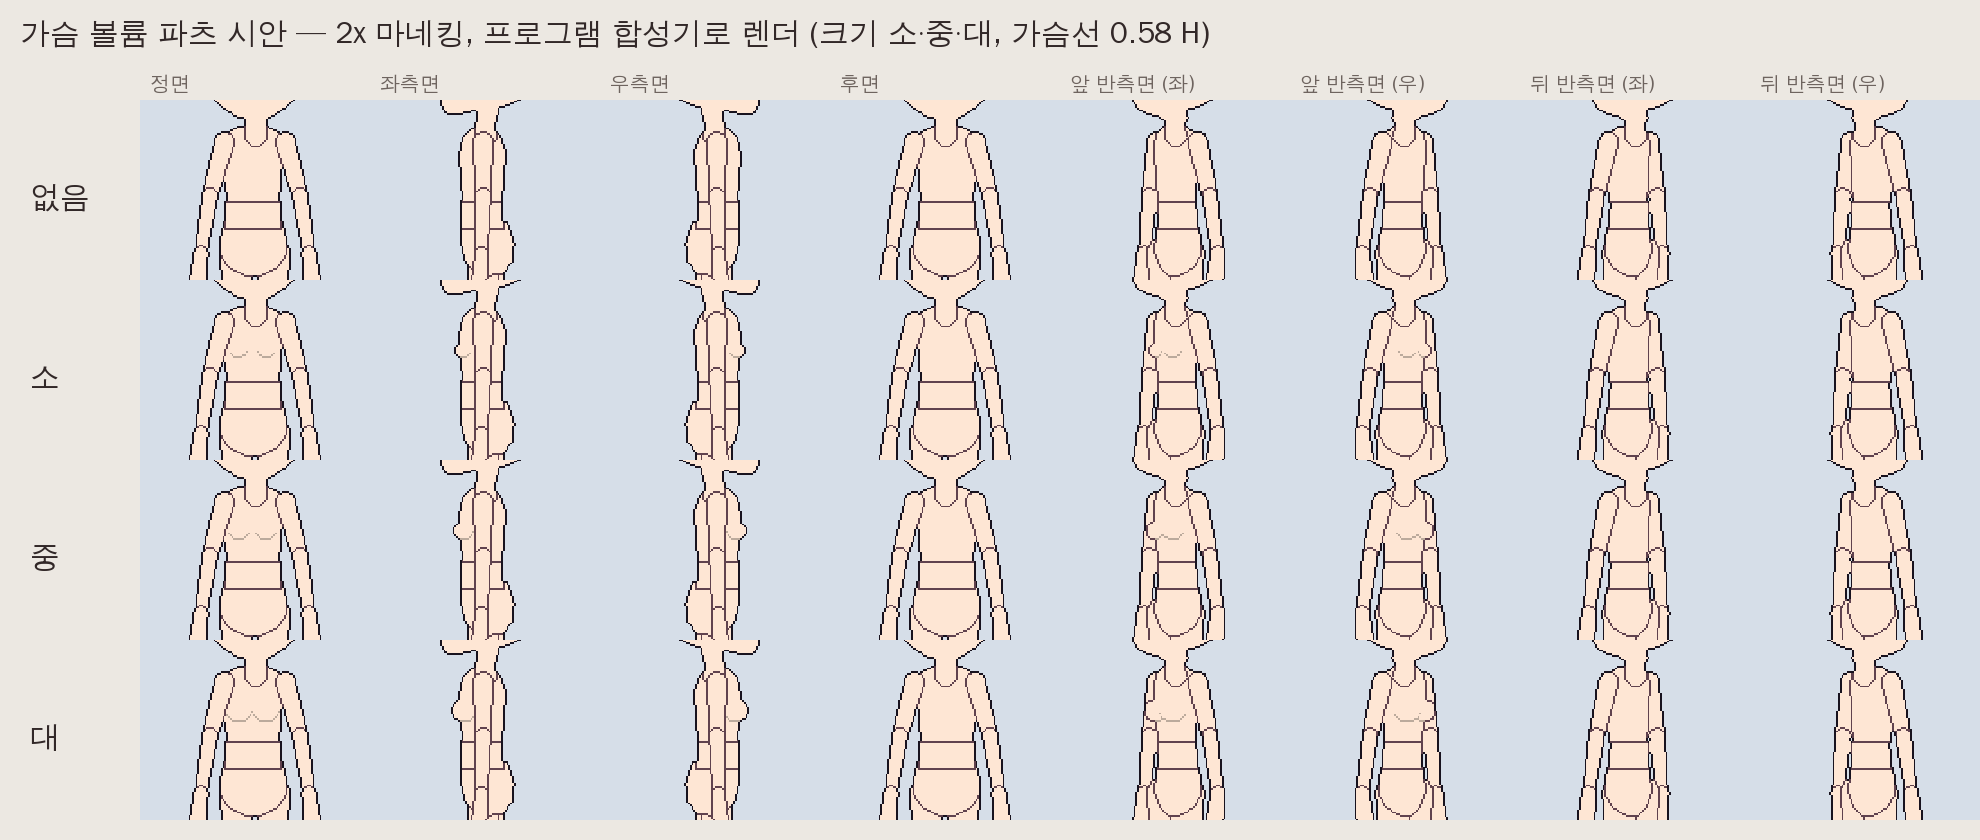
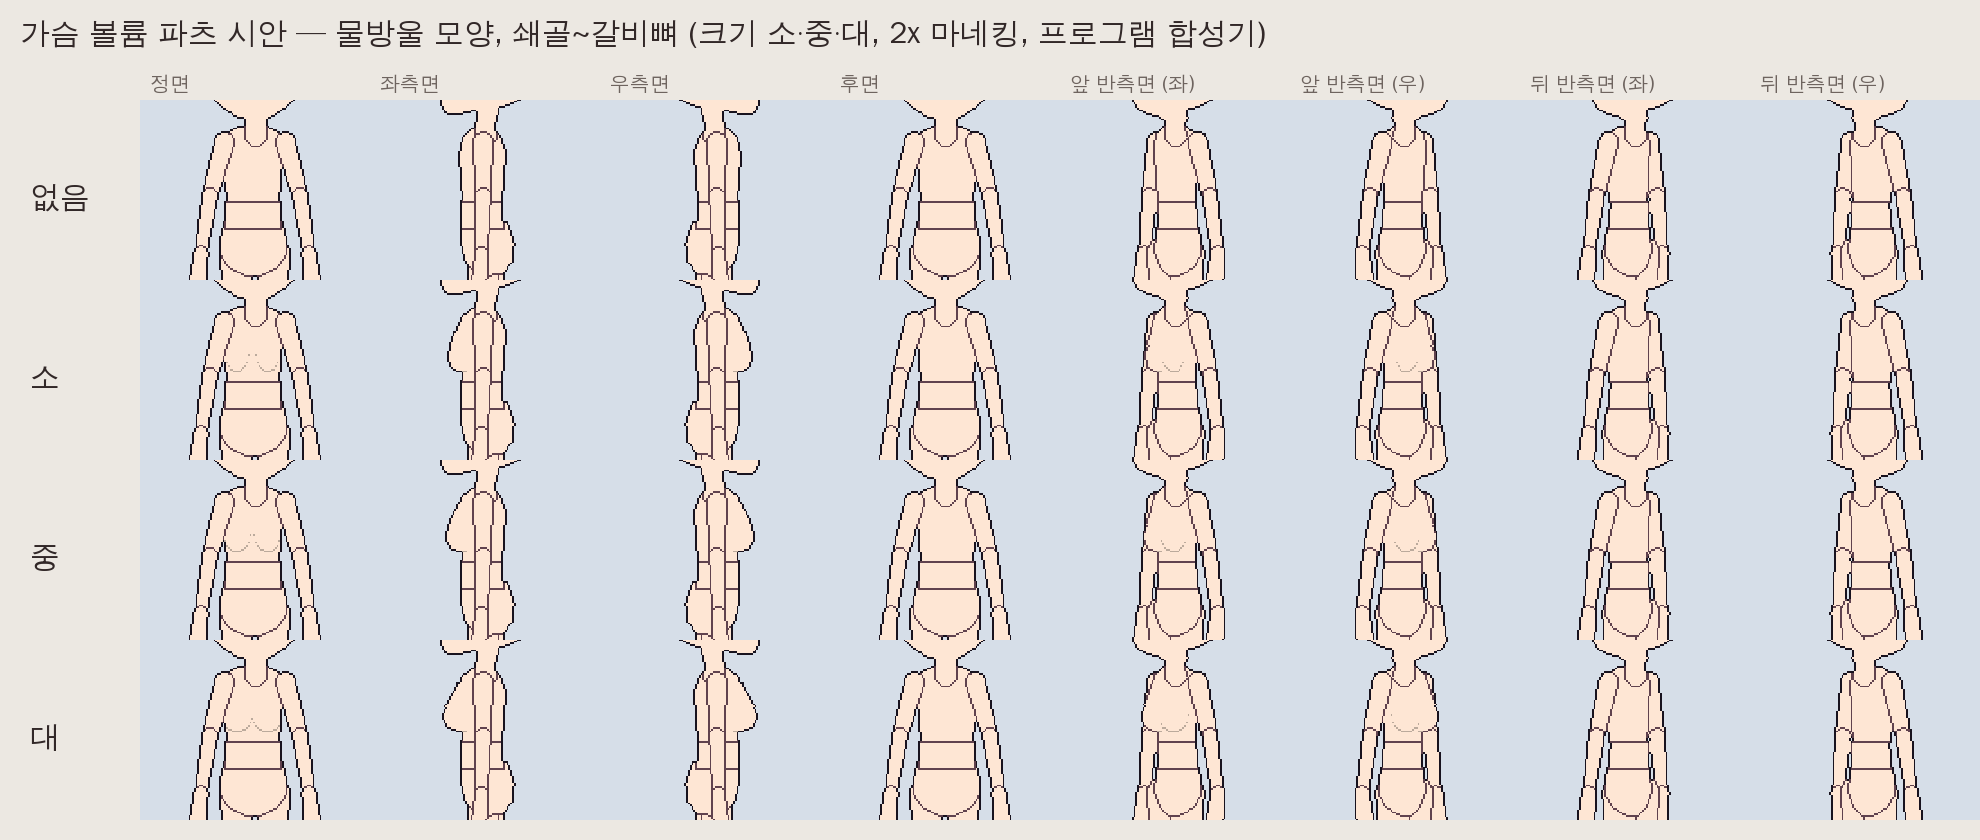
Bust part plan: teardrop from the collarbone to the ribs, larger
The starting shape is now a teardrop over the whole chest (collarbone
0.10 H to lower ribs 0.86 H): flat at the top, fullest at 68%, round at
the bottom, used as the front width and the side protrusion. Sizes grow
(max half-width 0.19 W, protrusion 0.22 W; S/M/L 0.85/1.0/1.2). The
prototype image is re-rendered and the test plan gains a shape check.

Claude-Session: https://claude.ai/code/session_018fGtUP1q1wdMrCxEohVe7T

diff --git a/doc/plan-bust-part.md b/doc/plan-bust-part.md
@@ -36,17 +36,26 @@
 
 - 너비 **W**: 정면 가슴 이미지의 가로 폭
 - 높이 **H**: 정면 가슴 이미지의 세로 길이
-- 가슴선 높이: 가슴 이미지 위에서 **0.58 H** — 겨드랑이(상완 관절)와 허리선의 대략 중간. 첫 시안은 0.40 H였는데, 쇄골 바로 아래라 너무 높아서 내렸다 (0.52·0.60과 비교해 결정)
+- 세로 범위: **쇄골**(가슴 이미지 위에서 0.10 H)부터 **아래 갈비뼈**(0.86 H, 허리선 바로 위)까지
 
-크기 계수 **k**는 소 0.8, 중 1.0, 대 1.25다. 기본 반지름은 가로 0.17 W·k, 세로 0.12 H·k이다.
+**물방울 모양.** 쇄골에서는 가슴 벽과 붙어 있다가 아래로 갈수록 천천히 불어난다. 0.68 지점(위에서부터 범위의 68%)에서 가장 크고, 아래는 둥글게 닫힌다. 범위 안의 위치를 t(0 = 쇄골, 1 = 갈비뼈)라 할 때 굵기 비율은 다음과 같다.
+
+- t < 0.68: (t / 0.68)^1.5 — 위쪽은 완만한 경사
+- t ≥ 0.68: √(1 − ((t − 0.68) / 0.32)²) — 아래쪽은 둥근 곡선
+
+정면에서는 이 비율이 폭이 되고, 측면에서는 몸통 앞으로 나오는 두께가 된다.
+
+크기 계수 **k**는 소 0.85, 중 1.0, 대 1.2다. 가장 큰 곳의 반폭(정면)은 0.19 W·k, 앞으로 나오는 두께(측면)는 0.22 W·k이다.
 
 | 방향 | 모양 | 윤곽 |
 | --- | --- | --- |
-| 정면 | 가운데에서 ±0.21 W 떨어진 타원 둘 | 몸통 안쪽. 아래 곡선만 한 단계 어두운 선으로 표시 |
-| 좌측면 (화면 왼쪽을 향함) | 몸통 앞 가장자리에 타원 하나 (가로 0.95배) | **몸통 윤곽 밖으로 볼록** — 가장 잘 보이는 방향 |
-| 앞 반측면 | 먼 쪽 타원(0.8배)은 앞 가장자리 밖으로, 가까운 쪽은 가운데 근처 | 먼 쪽이 윤곽을 살짝 넓힘 |
+| 정면 | 가운데에서 ±0.20 W 떨어진 물방울 둘. 아래쪽은 0.04 W만큼 바깥으로 벌어짐 | 몸통 안쪽. 둥근 아래 곡선만 한 단계 어두운 선으로 표시 |
+| 좌측면 (화면 왼쪽을 향함) | 몸통 앞 가장자리에서 물방울 옆모습만큼 앞으로 | **몸통 윤곽 밖으로** 쇄골부터 갈비뼈까지 이어지는 곡선 — 가장 잘 보이는 방향 |
+| 앞 반측면 | 먼 쪽은 앞 가장자리에 옆모습(0.8배), 가까운 쪽은 가운데 근처에 앞모습 | 먼 쪽이 윤곽을 넓힘 |
 | 후면 | 빈 이미지 | 없음 |
-| 뒤 반측면 | 앞 가장자리 밖으로 나오는 부분만 (0.7배) | 기본 자세에서는 가까운 팔에 가려짐 |
+| 뒤 반측면 | 앞 가장자리 밖으로 나오는 옆모습만 (0.6배) | 기본 자세에서는 가까운 팔에 대부분 가려짐 |
+
+바뀐 과정: 첫 시안(타원, 가슴선 0.40 H)이 너무 높았다. 0.58 H로 내린 뒤, 요청에 따라 쇄골부터 갈비뼈까지 이어지는 물방울 모양으로 바꾸고 크기를 키웠다.
 
 - 색: 가슴 이미지에서 가장 많이 쓴 색. 아래 곡선은 팔레트에서 한 단계 어두운 색이다 (자동 명암과 같은 방법으로 고르고, 없으면 그 색을 3/4 밝기로 만들어 팔레트에 추가).
 - 자동 명암은 가슴과 한 덩어리로 보므로 볼륨 아래에 그림자를 따로 만들지 않는다. 그래서 시작 그림에 아랫선을 넣는다.
@@ -101,6 +110,7 @@
 
 - 추가하면 부모가 가슴이고, 세부 파츠이며, 저장하는 모든 방향에 뷰가 있음. 후면은 빈 이미지.
 - 크기 소 < 중 < 대: 측면에서 몸통 앞 가장자리 밖으로 나온 픽셀 수가 커짐.
+- 물방울 모양: 측면에서 앞으로 나온 두께가 쇄골 쪽에서 0부터 늘어나, 범위의 약 68% 지점에서 가장 크고, 갈비뼈 쪽에서 다시 0이 됨. 위쪽 절반의 두께는 아래쪽 절반보다 작음.
 - 합성 결과에서 가슴과 볼륨 사이에 안쪽 경계선이 없음 (세부 파츠).
 - 측면과 앞 반측면에서는 합성 윤곽이 가슴만 있을 때보다 넓음. 후면은 같음.
 - 추가·삭제가 되돌리기 한 번. 저장 후 불러와도 같음. 없는 프로젝트는 기준 파일과 같음.
